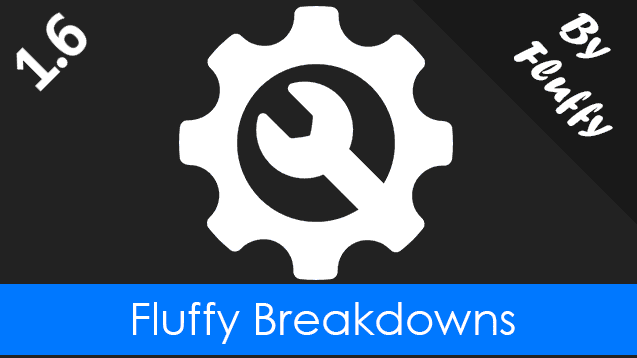
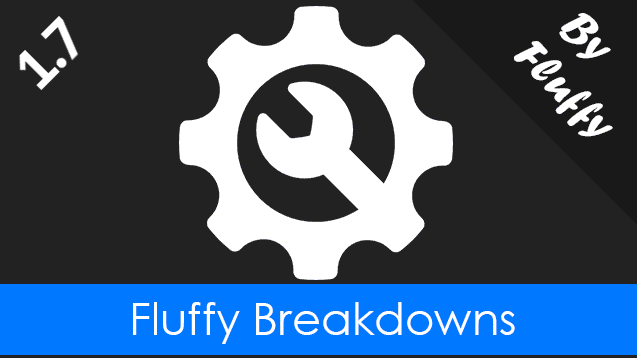
Update for 1.7

Changed region(s): [[0.0597, 0.0307, 0.1491, 0.1844], [0.0, 0.1229, 0.0895, 0.2458]]

diff --git a/Readme.md b/Readme.md
@@ -1,4 +1,4 @@
-[![RimWorld 1.6](https://img.shields.io/badge/RimWorld-1.6-brightgreen.svg)](http://rimworldgame.com/)
+[![RimWorld 1.7](https://img.shields.io/badge/RimWorld-1.7-brightgreen.svg)](http://rimworldgame.com/)
 
 Replaces random breakdowns with a maintenance requirement.
 
@@ -18,5 +18,5 @@ See the original project at https://github.com/fluffy-mods/FluffyBreakdowns
 
 *************************
 
-Support for RimWorld versions 1.3, 1.4, 1.5, 1.6
+Support for RimWorld versions 1.3, 1.4, 1.5, 1.6, 1.7
 Support for all expansions
